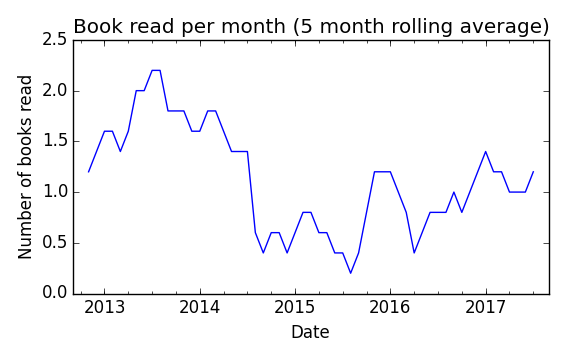
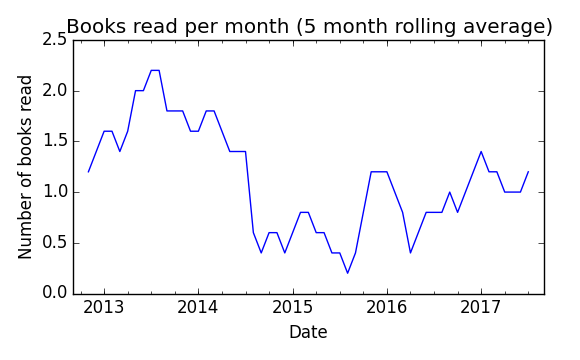
Typo

diff --git a/generate_Readme.py b/generate_Readme.py
@@ -64,5 +64,5 @@ df3df = pd.rolling_mean(df3, 5, center=True)
 fig = df3df.plot(yticks=[0.0, 0.5, 1.0, 1.5, 2.0, 2.5])
 fig.set_xlabel('Date')
 fig.set_ylabel('Number of books read')
-fig.set_title('Book read per month (5 month rolling average)')
+fig.set_title('Books read per month (5 month rolling average)')
 fig.get_figure().savefig('book_read.png')
